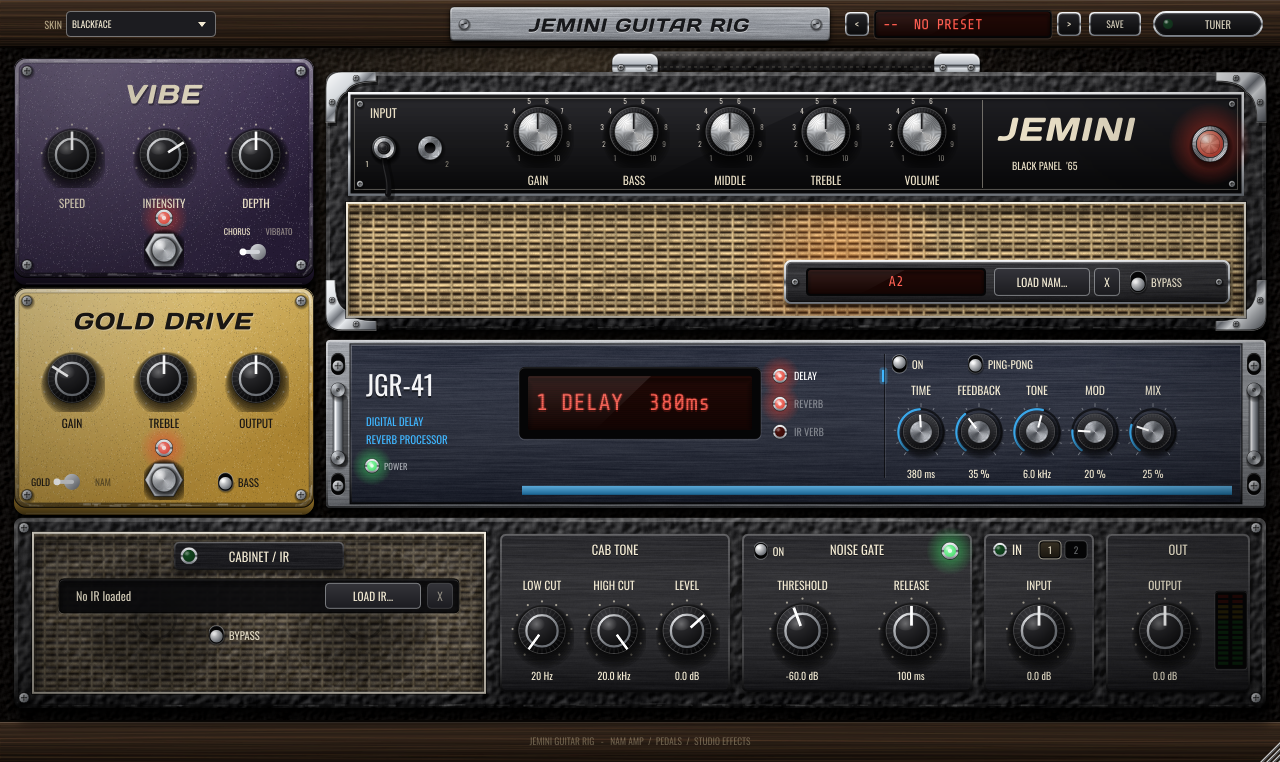
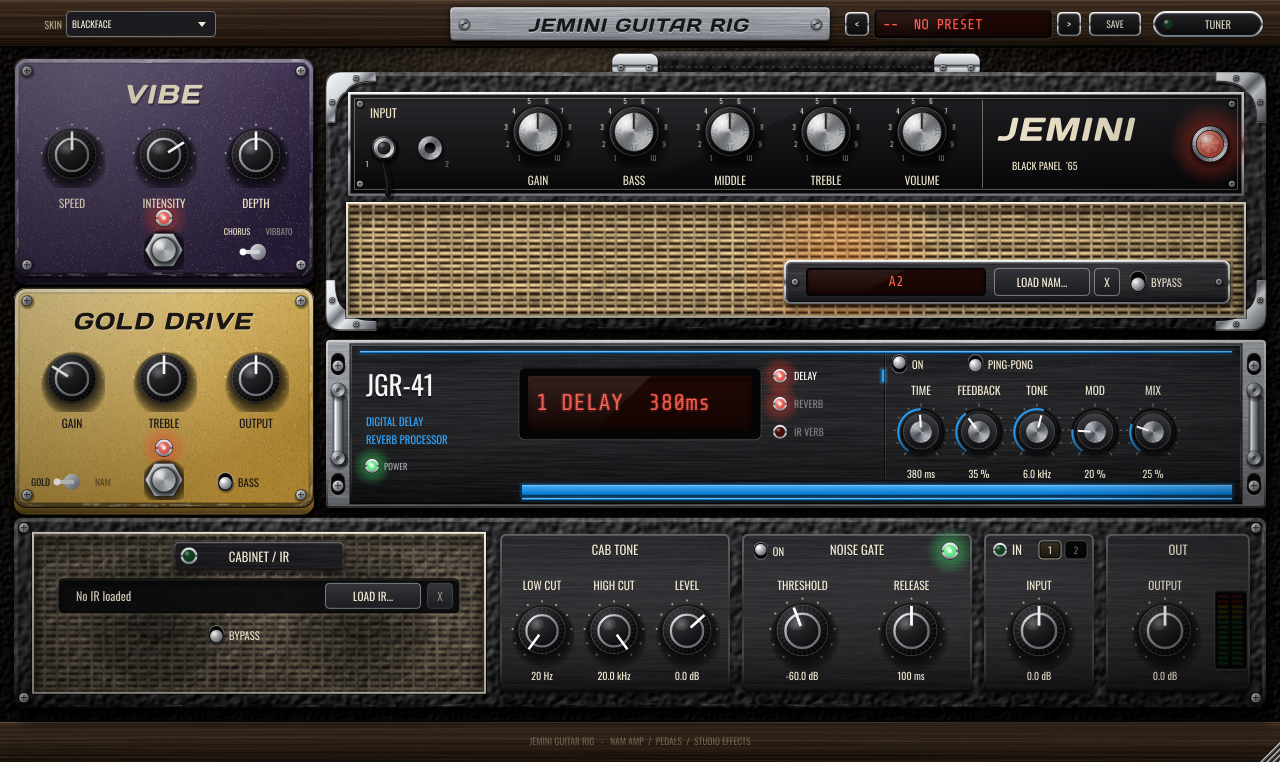
JGR-41: deep black face and stronger blue lines
Blackface skin rack face is now near-black; accent lines are saturated,
thicker and glow slightly: bold stripe + pinstripe at the bottom and a
hairline under the top edge (kept clear of the knob value read-outs).

Claude-Session: https://claude.ai/code/session_01Xrv8MNUsFMci2LD7dNoEYZ

Changed region(s): [[0.25, 0.4528, 0.9688, 0.6037], [0.4062, 0.6339, 0.9688, 0.664]]

diff --git a/Source/UI/RigPanel.cpp b/Source/UI/RigPanel.cpp
@@ -1977,12 +1977,23 @@ void RigPanel::drawRack (juce::Graphics& g) const
     g.setColour (juce::Colours::white.withAlpha (0.10f));
     g.drawVerticalLine (dx + 1, face.getY() + 10.0f, face.getBottom() - 26.0f);
 
-    // Blue stripe (printed, slight gloss)
-    const auto stripe = juce::Rectangle<float> (disp.getX(), face.getBottom() - 18.0f, face.getRight() - disp.getX() - 10.0f, 9.0f);
-    const auto stripeColour = sk.rackAccent.withMultipliedSaturation (1.1f).withMultipliedBrightness (0.8f);
-    juce::ColourGradient blue (stripeColour.brighter (0.35f), stripe.getX(), stripe.getY(), stripeColour.darker (0.4f), stripe.getX(), stripe.getBottom(), false);
-    g.setGradientFill (blue);
-    g.fillRect (stripe);
+    // Accent lines: a bold printed stripe with a pinstripe above it, plus a
+    // hairline under the top edge. Saturated, with a faint glow on the black.
+    const auto stripeColour = sk.rackAccent.withMultipliedSaturation (1.25f);
+    auto drawLine = [&g, stripeColour] (juce::Rectangle<float> r, float glow)
+    {
+        g.setColour (stripeColour.withAlpha (glow));
+        g.fillRoundedRectangle (r.expanded (2.5f), 3.0f);
+        juce::ColourGradient grad (stripeColour.brighter (0.45f), r.getX(), r.getY(), stripeColour.darker (0.25f), r.getX(), r.getBottom(), false);
+        g.setGradientFill (grad);
+        g.fillRect (r);
+        g.setColour (juce::Colours::white.withAlpha (0.25f));
+        g.drawHorizontalLine ((int) r.getY(), r.getX(), r.getRight());
+    };
+    const float stripeX = disp.getX(), stripeW = face.getRight() - disp.getX() - 10.0f;
+    drawLine ({ stripeX, face.getBottom() - 19.0f, stripeW, 10.0f }, 0.22f);
+    drawLine ({ stripeX, face.getBottom() - 6.0f, stripeW, 2.0f }, 0.15f);
+    drawLine ({ face.getX() + 10.0f, face.getY() + 7.0f, face.getWidth() - 20.0f, 2.0f }, 0.12f);
 }
 
 //------------------------------------------------------------------------------

diff --git a/Source/UI/Skins.h b/Source/UI/Skins.h
@@ -70,7 +70,7 @@ namespace skins
                 s.vibeTop = juce::Colour (0xff4a3a62); s.vibeBottom = juce::Colour (0xff241a33); s.vibeText = juce::Colour (0xffe9dfc6);
                 s.goldTop = juce::Colour (0xffe4c46e); s.goldBottom = juce::Colour (0xffa9822f); s.goldText = juce::Colour (0xff1a1714);
                 s.namTop = juce::Colour (0xff3f4a44); s.namBottom = juce::Colour (0xff1a201d); s.namText = juce::Colour (0xffe9dfc6);
-                s.rackFace = juce::Colour (0xff1e2333); s.rackAccent = juce::Colour (0xff3fb6ff);
+                s.rackFace = juce::Colour (0xff101114); s.rackAccent = juce::Colour (0xff2ea6ff);
                 s.rackTitle = juce::Colour (0xfff4f5f7); s.display = juce::Colour (0xffff3a2a); s.displayGlass = juce::Colour (0xff240a07);
                 s.subPanel = juce::Colour (0xff1d1d21);
                 v.push_back (s);
